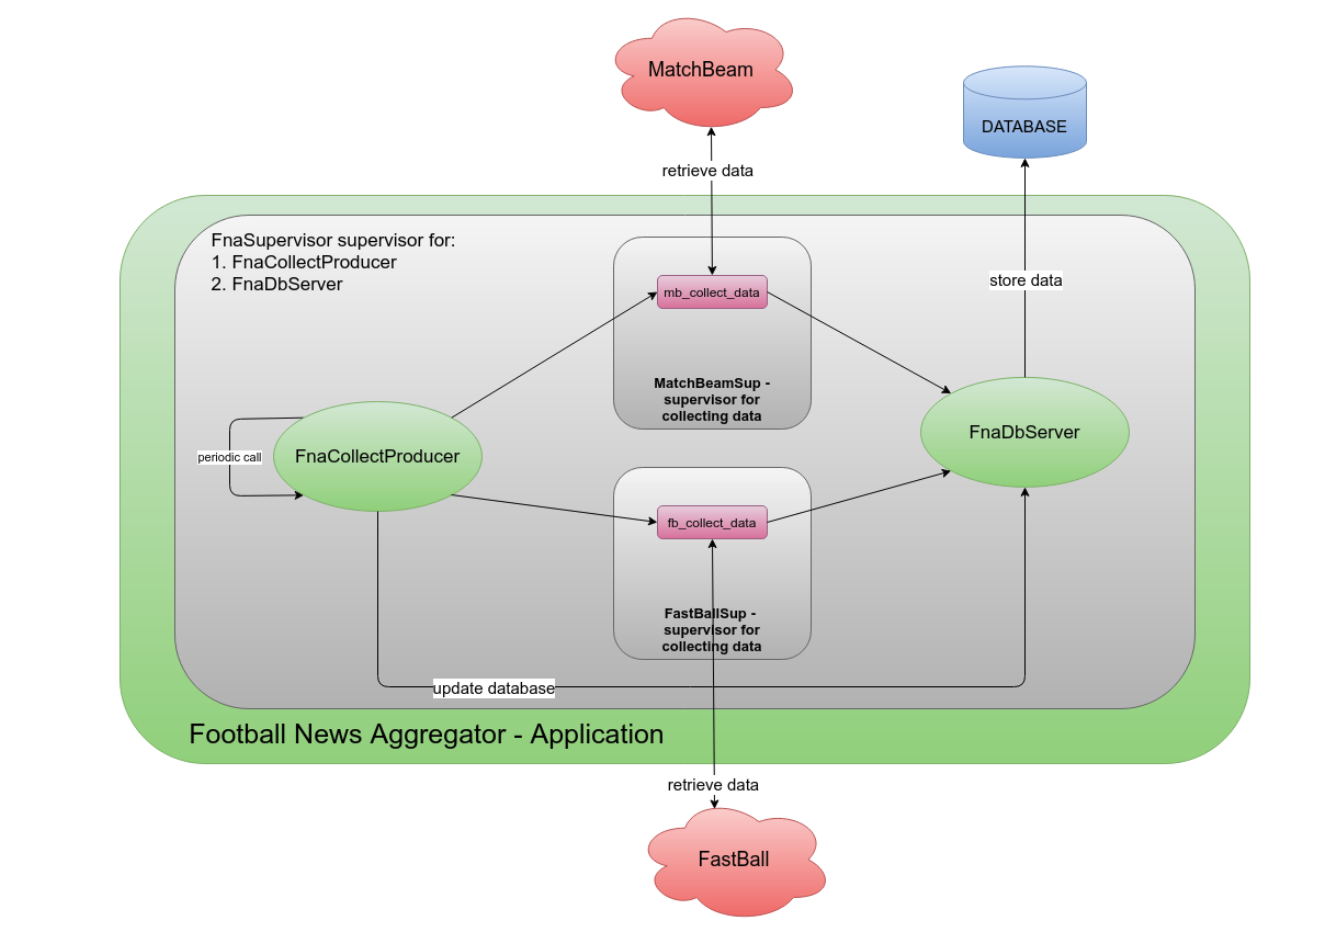
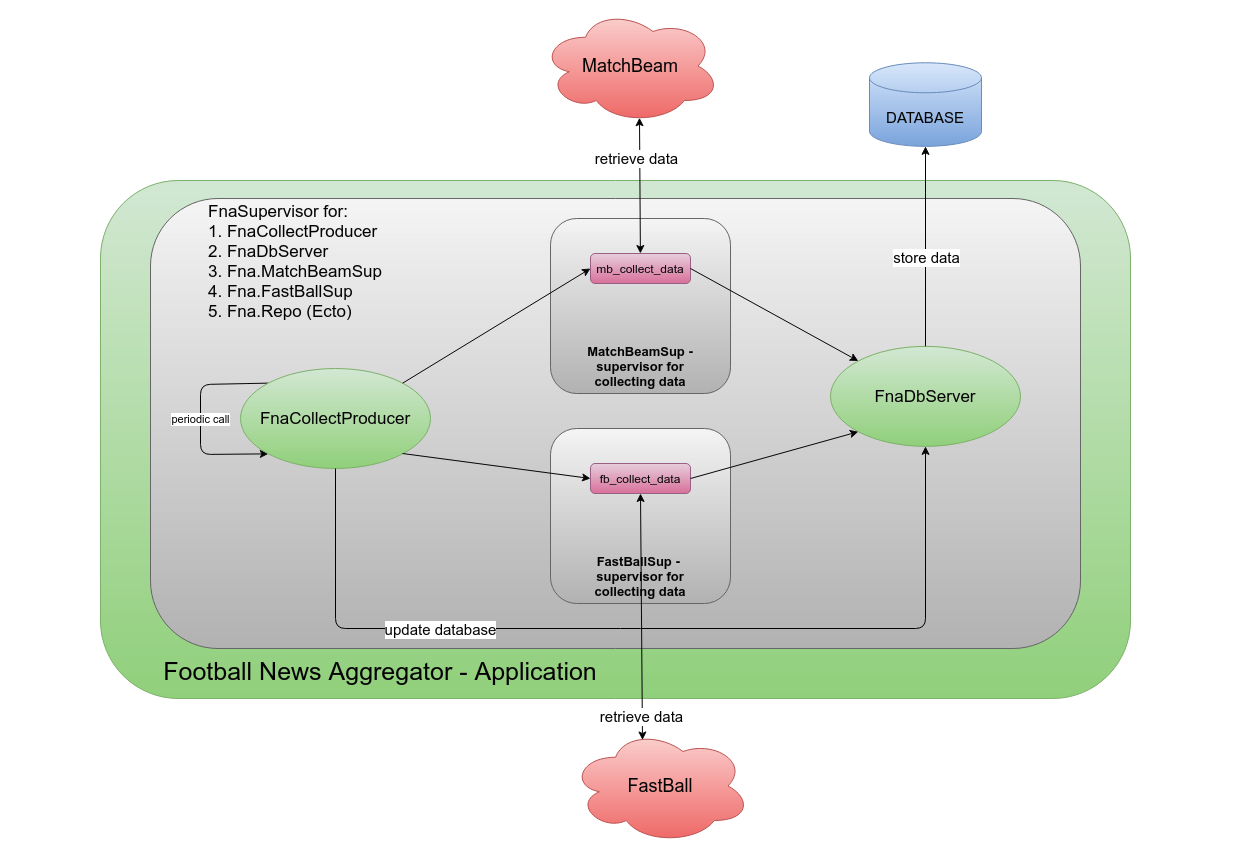
Improved documentation and added travis info

diff --git a/README.md b/README.md
@@ -15,6 +15,22 @@ The initial Design for the servers will be as the picture below:
 
 ![FCA Design](/doc/fna_design.png)
 
+The image below shows the supervision tree captured from the final application:
+
+![Supervision Tree](/doc/supervision_tree.png)
+
+### What can be improved ###
+
+```
+1- It is missing deploy files as docker, aws cloudFormation, etc;
+2- It is possible to improve how both providers are connected by the collect_producer server, maybe each one could
+have its own reference (ID) and the database could request only the one that timed out.
+3- Implement some of the TODOs indicated in the code
+4- Write some tests to check if the database is consistent with the data collected
+5- Increase the number of unit test to achieve 100% coverage
+6- Add configuration file for github actions
+```
+
 ### Installing and running PostgreSQL ###
 
 For local installation:
